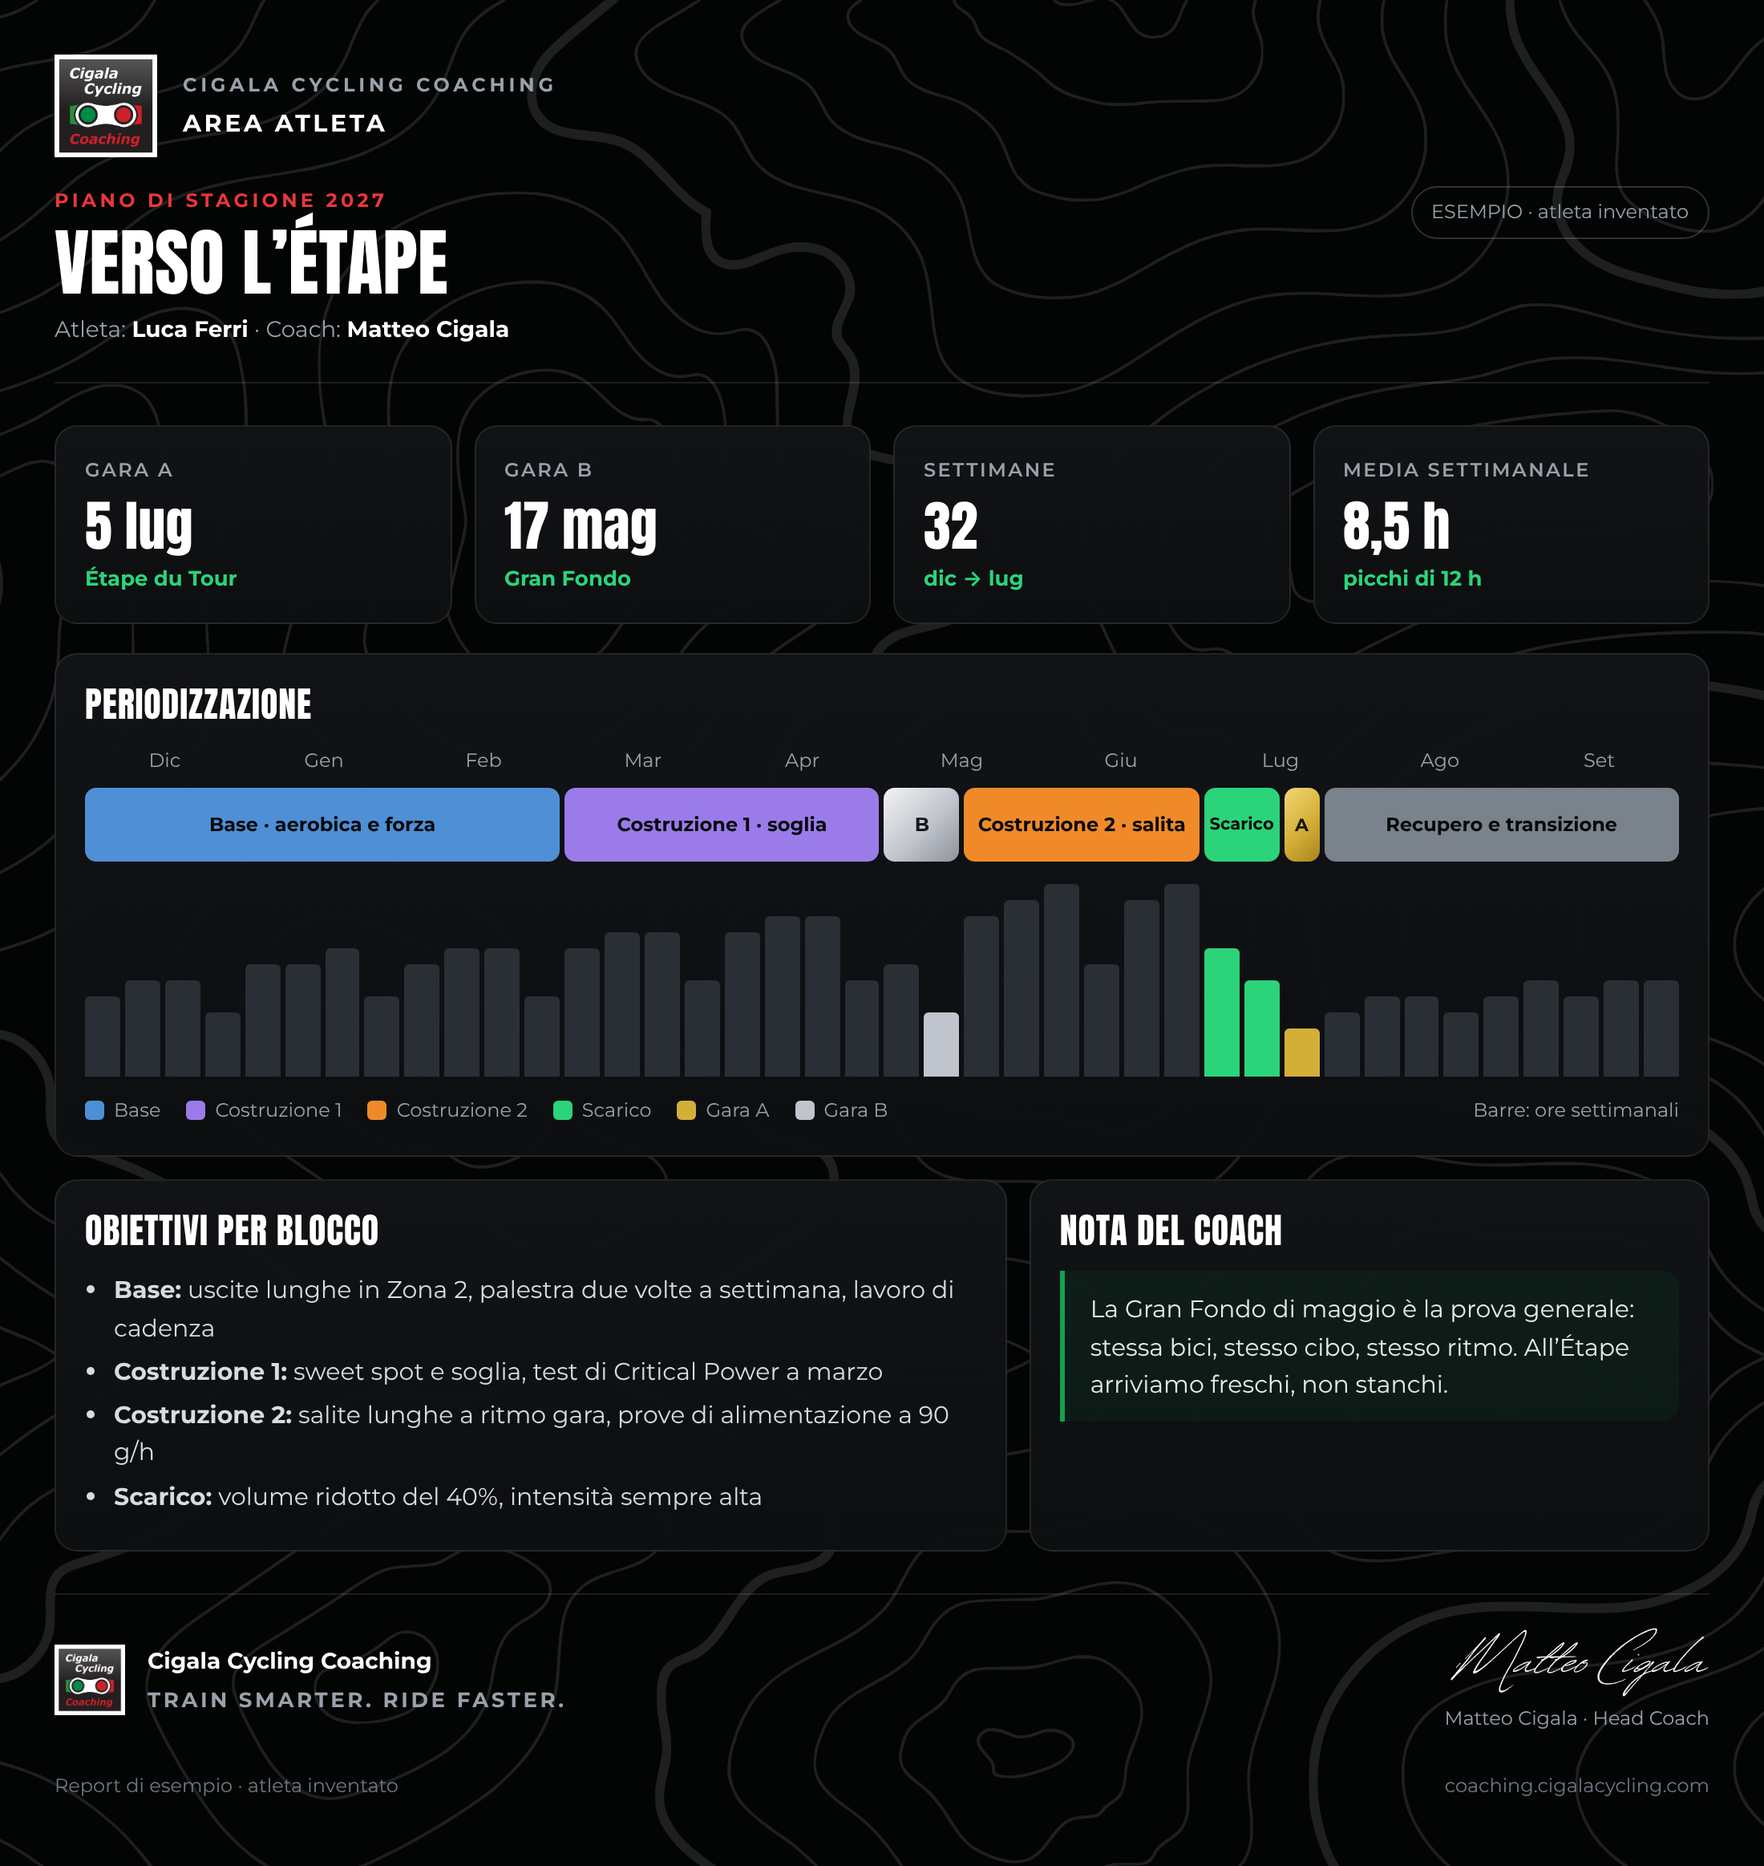
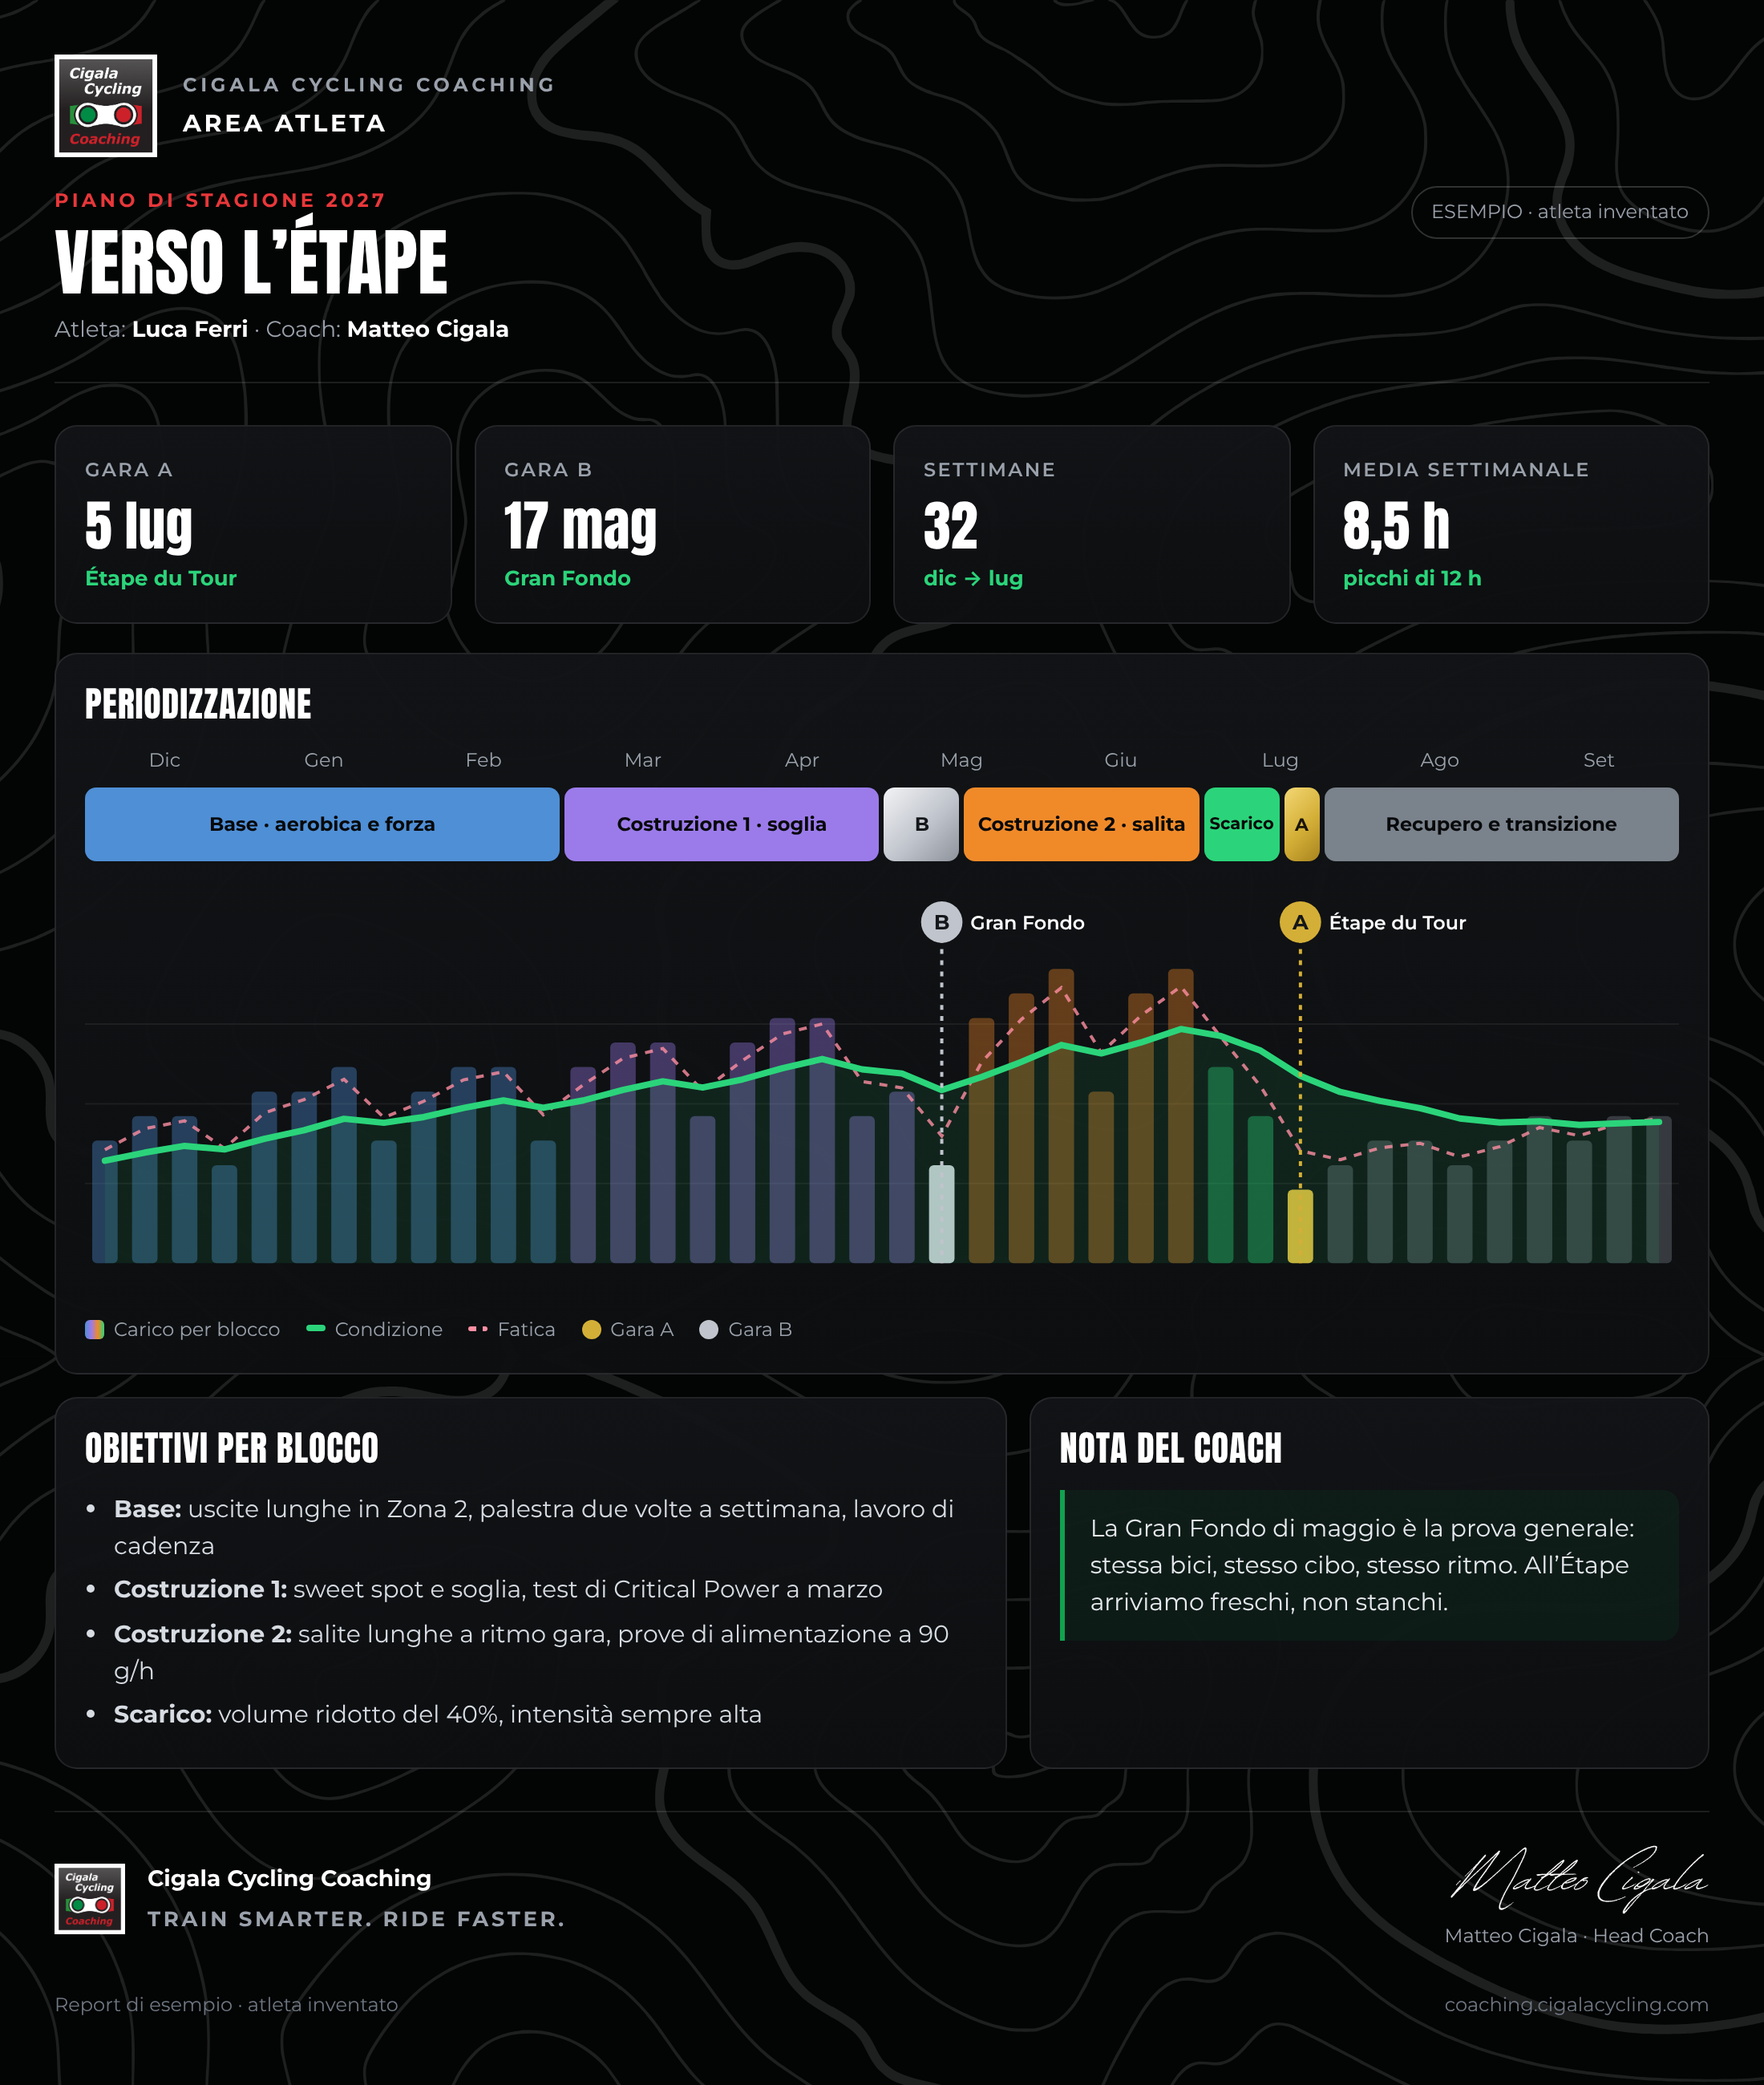
Example season plan: richer periodisation graph (load by block, fitness, fatigue, A/B races; no axis numbers), EN + IT
Claude-Session: https://claude.ai/code/session_01APBtfV87hW2MRrnroMbwU8

diff --git a/coaching/athlete-area/examples/it-season-plan.html b/coaching/athlete-area/examples/it-season-plan.html
@@ -9,10 +9,23 @@
 <div class="card"><h2>Periodizzazione</h2><div class="tl">
 <div class="months"><span>Dic</span><span>Gen</span><span>Feb</span><span>Mar</span><span>Apr</span><span>Mag</span><span>Giu</span><span>Lug</span><span>Ago</span><span>Set</span></div>
 <div class="ph"><div style="grid-column:1/13;background:#4f8fd6">Base · aerobica e forza</div><div style="grid-column:13/21;background:#9b7bea">Costruzione 1 · soglia</div><div style="grid-column:21/23;background:linear-gradient(135deg,#F2F3F5,#C0C4CC 55%,#8E939C);color:#15171a">B</div><div style="grid-column:23/29;background:#f08a29">Costruzione 2 · salita</div><div style="grid-column:29/31;background:#2bd47a;font-size:10.5px">Scarico</div><div style="grid-column:31/32;background:linear-gradient(135deg,#F3D774,#D4AF37 55%,#A8841F);color:#1a1406;font-size:11px">A</div><div style="grid-column:32/41;background:#7a828c">Recupero e transizione</div></div>
-<div class="hrs" id="h"></div>
+<div id="pz" style="margin-top:22px"></div>
 </div>
-<div class="lg"><span><b style="background:#4f8fd6"></b>Base</span><span><b style="background:#9b7bea"></b>Costruzione 1</span><span><b style="background:#f08a29"></b>Costruzione 2</span><span><b style="background:#2bd47a"></b>Scarico</span><span><b style="background:#D4AF37"></b>Gara A</span><span><b style="background:#C0C4CC"></b>Gara B</span><span style="margin-left:auto">Barre: ore settimanali</span></div></div>
+<div class="lg"><span><b style="background:linear-gradient(90deg,#4f8fd6,#9b7bea,#f08a29,#2bd47a)"></b>Carico per blocco</span><span><b style="background:#2bd47a;height:4px;vertical-align:3px"></b>Condizione</span><span><b style="background:repeating-linear-gradient(90deg,#ff8fa3 0 5px,transparent 5px 9px);height:3px;vertical-align:3px"></b>Fatica</span><span><b style="background:#D4AF37;border-radius:50%"></b>Gara A</span><span><b style="background:#C0C4CC;border-radius:50%"></b>Gara B</span></div></div>
 <div class="grid g2" style="margin-top:14px"><div class="card"><h2>Obiettivi per blocco</h2><ul><li><b>Base:</b> uscite lunghe in Zona 2, palestra due volte a settimana, lavoro di cadenza</li><li><b>Costruzione 1:</b> sweet spot e soglia, test di Critical Power a marzo</li><li><b>Costruzione 2:</b> salite lunghe a ritmo gara, prove di alimentazione a 90 g/h</li><li><b>Scarico:</b> volume ridotto del 40%, intensità sempre alta</li></ul></div>
 <div class="card"><h2>Nota del coach</h2><div class="note">La Gran Fondo di maggio è la prova generale: stessa bici, stesso cibo, stesso ritmo. All’Étape arriviamo freschi, non stanchi.</div></div></div>
 <div class="bfoot"><div class="l"><img src="logo.png" alt=""><div><b>Cigala Cycling Coaching</b><div class="tg">Train smarter. Ride faster.</div></div></div><div class="r"><img src="signature.png" alt="Matteo Cigala signature"><small>Matteo Cigala · Head Coach</small></div></div><div class="foot"><span>Report di esempio · atleta inventato</span><span>coaching.cigalacycling.com</span></div></div>
-<script>var h=[5,6,6,4,7,7,8,5,7,8,8,5,8,9,9,6,9,10,10,6,7,4,10,11,12,7,11,12,8,6,3,4,5,5,4,5,6,5,6,6],e=document.getElementById('h');h.forEach(function(x,i){var b=document.createElement('i');b.style.height=(x/12*100)+'%';if(i===30)b.style.background='#D4AF37';else if(i===21)b.style.background='#C0C4CC';else if(i>=28&&i<30)b.style.background='#2bd47a';e.appendChild(b)})</script></body></html>
+<script>(function(){
+var load=[5,6,6,4,7,7,8,5,7,8,8,5,8,9,9,6,9,10,10,6,7,4,10,11,12,7,11,12,8,6,3,4,5,5,4,5,6,5,6,6];
+function col(i){return i<12?'#4f8fd6':i<20?'#9b7bea':i<22?(i==21?'#C0C4CC':'#9b7bea'):i<28?'#f08a29':i<30?'#2bd47a':i==30?'#D4AF37':'#7a828c';}
+var W=1000,H=250,T=30,B=20,n=load.length,bw=W/n,mx=13,y=function(v){return T+(H-T-B)*(1-v/mx);};
+var ctl=[],atl=[],c=4,a=4;load.forEach(function(v){c+=(v-c)/5.5;a+=(v-a)/1.6;ctl.push(c);atl.push(a);});
+var s='<svg viewBox="0 0 '+W+' '+H+'" width="100%" style="display:block;overflow:visible">';
+for(var g=1;g<4;g++)s+='<line x1="0" x2="'+W+'" y1="'+(T+(H-T-B)*g/4)+'" y2="'+(T+(H-T-B)*g/4)+'" stroke="rgba(255,255,255,.06)"/>';
+load.forEach(function(v,i){s+='<rect x="'+(i*bw+bw*.18)+'" y="'+y(v)+'" width="'+bw*.64+'" height="'+(H-B-y(v))+'" rx="3" fill="'+col(i)+'" opacity="'+(i==21||i==30?1:.38)+'"/>';});
+function path(arr){return arr.map(function(v,i){return (i?'L':'M')+(i*bw+bw/2).toFixed(1)+' '+y(v).toFixed(1);}).join(' ');}
+s+='<path d="'+path(ctl)+' L'+((n-1)*bw+bw/2)+' '+(H-B)+' L'+(bw/2)+' '+(H-B)+'Z" fill="rgba(43,212,122,.10)"/>';
+s+='<path d="'+path(atl)+'" fill="none" stroke="#ff8fa3" stroke-width="2" stroke-dasharray="5 5" opacity=".8"/>';
+s+='<path d="'+path(ctl)+'" fill="none" stroke="#2bd47a" stroke-width="4" stroke-linecap="round" stroke-linejoin="round"/>';
+[[21,'B','#C0C4CC','Gran Fondo'],[30,'A','#D4AF37','Étape du Tour']].forEach(function(r){var x=r[0]*bw+bw/2;s+='<line x1="'+x+'" x2="'+x+'" y1="'+(T-4)+'" y2="'+(H-B)+'" stroke="'+r[2]+'" stroke-width="2" stroke-dasharray="3 4"/><circle cx="'+x+'" cy="'+(T-14)+'" r="13" fill="'+r[2]+'"/><text x="'+x+'" y="'+(T-9.5)+'" text-anchor="middle" font-family="Montserrat" font-weight="700" font-size="13" fill="#15171a">'+r[1]+'</text><text x="'+(x+18)+'" y="'+(T-9.5)+'" font-family="Montserrat" font-weight="600" font-size="12" fill="#fff">'+r[3]+'</text>';});
+s+='</svg>';document.getElementById('pz').innerHTML=s;})();</script></body></html>

diff --git a/coaching/athlete-area/examples/season-plan.html b/coaching/athlete-area/examples/season-plan.html
@@ -9,10 +9,23 @@
 <div class="card"><h2>Periodisation</h2><div class="tl">
 <div class="months"><span>Dec</span><span>Jan</span><span>Feb</span><span>Mar</span><span>Apr</span><span>May</span><span>Jun</span><span>Jul</span><span>Aug</span><span>Sep</span></div>
 <div class="ph"><div style="grid-column:1/13;background:#4f8fd6">Base · aerobic &amp; strength</div><div style="grid-column:13/21;background:#9b7bea">Build 1 · threshold</div><div style="grid-column:21/23;background:linear-gradient(135deg,#F2F3F5,#C0C4CC 55%,#8E939C);color:#15171a">B</div><div style="grid-column:23/29;background:#f08a29">Build 2 · climbing</div><div style="grid-column:29/31;background:#2bd47a">Taper</div><div style="grid-column:31/32;background:linear-gradient(135deg,#F3D774,#D4AF37 55%,#A8841F);color:#1a1406;font-size:11px">A</div><div style="grid-column:32/41;background:#7a828c">Recovery &amp; transition</div></div>
-<div class="hrs" id="h"></div>
+<div id="pz" style="margin-top:22px"></div>
 </div>
-<div class="lg"><span><b style="background:#4f8fd6"></b>Base</span><span><b style="background:#9b7bea"></b>Build 1</span><span><b style="background:#f08a29"></b>Build 2</span><span><b style="background:#2bd47a"></b>Taper</span><span><b style="background:#D4AF37"></b>A race</span><span><b style="background:#C0C4CC"></b>B race</span><span style="margin-left:auto">Bars: weekly hours</span></div></div>
+<div class="lg"><span><b style="background:linear-gradient(90deg,#4f8fd6,#9b7bea,#f08a29,#2bd47a)"></b>Training load by block</span><span><b style="background:#2bd47a;height:4px;vertical-align:3px"></b>Fitness</span><span><b style="background:repeating-linear-gradient(90deg,#ff8fa3 0 5px,transparent 5px 9px);height:3px;vertical-align:3px"></b>Fatigue</span><span><b style="background:#D4AF37;border-radius:50%"></b>A race</span><span><b style="background:#C0C4CC;border-radius:50%"></b>B race</span></div></div>
 <div class="grid g2" style="margin-top:14px"><div class="card"><h2>Focus by block</h2><ul><li><b>Base:</b> long Zone 2 rides, gym twice a week, cadence work</li><li><b>Build 1:</b> sweet spot and threshold, Critical Power test in March</li><li><b>Build 2:</b> long climbs at race pace, fuelling practice at 90 g/h</li><li><b>Taper:</b> volume down 40%, keep the intensity sharp</li></ul></div>
 <div class="card"><h2>Coach's note</h2><div class="note">The Gran Fondo in May is a dress rehearsal: same bike, same food, same pacing. We arrive at the Étape fresh, not tired.</div></div></div>
 <div class="bfoot"><div class="l"><img src="logo.png" alt=""><div><b>Cigala Cycling Coaching</b><div class="tg">Train smarter. Ride faster.</div></div></div><div class="r"><img src="signature.png" alt="Matteo Cigala signature"><small>Matteo Cigala · Head Coach</small></div></div><div class="foot"><span>Example report · not a real athlete</span><span>coaching.cigalacycling.com</span></div></div>
-<script>var h=[5,6,6,4,7,7,8,5,7,8,8,5,8,9,9,6,9,10,10,6,7,4,10,11,12,7,11,12,8,6,3,4,5,5,4,5,6,5,6,6],e=document.getElementById('h');h.forEach(function(x,i){var b=document.createElement('i');b.style.height=(x/12*100)+'%';if(i===30)b.style.background='#D4AF37';else if(i===21)b.style.background='#C0C4CC';else if(i>=28&&i<30)b.style.background='#2bd47a';e.appendChild(b)})</script></body></html>
+<script>(function(){
+var load=[5,6,6,4,7,7,8,5,7,8,8,5,8,9,9,6,9,10,10,6,7,4,10,11,12,7,11,12,8,6,3,4,5,5,4,5,6,5,6,6];
+function col(i){return i<12?'#4f8fd6':i<20?'#9b7bea':i<22?(i==21?'#C0C4CC':'#9b7bea'):i<28?'#f08a29':i<30?'#2bd47a':i==30?'#D4AF37':'#7a828c';}
+var W=1000,H=250,T=30,B=20,n=load.length,bw=W/n,mx=13,y=function(v){return T+(H-T-B)*(1-v/mx);};
+var ctl=[],atl=[],c=4,a=4;load.forEach(function(v){c+=(v-c)/5.5;a+=(v-a)/1.6;ctl.push(c);atl.push(a);});
+var s='<svg viewBox="0 0 '+W+' '+H+'" width="100%" style="display:block;overflow:visible">';
+for(var g=1;g<4;g++)s+='<line x1="0" x2="'+W+'" y1="'+(T+(H-T-B)*g/4)+'" y2="'+(T+(H-T-B)*g/4)+'" stroke="rgba(255,255,255,.06)"/>';
+load.forEach(function(v,i){s+='<rect x="'+(i*bw+bw*.18)+'" y="'+y(v)+'" width="'+bw*.64+'" height="'+(H-B-y(v))+'" rx="3" fill="'+col(i)+'" opacity="'+(i==21||i==30?1:.38)+'"/>';});
+function path(arr){return arr.map(function(v,i){return (i?'L':'M')+(i*bw+bw/2).toFixed(1)+' '+y(v).toFixed(1);}).join(' ');}
+s+='<path d="'+path(ctl)+' L'+((n-1)*bw+bw/2)+' '+(H-B)+' L'+(bw/2)+' '+(H-B)+'Z" fill="rgba(43,212,122,.10)"/>';
+s+='<path d="'+path(atl)+'" fill="none" stroke="#ff8fa3" stroke-width="2" stroke-dasharray="5 5" opacity=".8"/>';
+s+='<path d="'+path(ctl)+'" fill="none" stroke="#2bd47a" stroke-width="4" stroke-linecap="round" stroke-linejoin="round"/>';
+[[21,'B','#C0C4CC','Gran Fondo'],[30,'A','#D4AF37','Étape du Tour']].forEach(function(r){var x=r[0]*bw+bw/2;s+='<line x1="'+x+'" x2="'+x+'" y1="'+(T-4)+'" y2="'+(H-B)+'" stroke="'+r[2]+'" stroke-width="2" stroke-dasharray="3 4"/><circle cx="'+x+'" cy="'+(T-14)+'" r="13" fill="'+r[2]+'"/><text x="'+x+'" y="'+(T-9.5)+'" text-anchor="middle" font-family="Montserrat" font-weight="700" font-size="13" fill="#15171a">'+r[1]+'</text><text x="'+(x+18)+'" y="'+(T-9.5)+'" font-family="Montserrat" font-weight="600" font-size="12" fill="#fff">'+r[3]+'</text>';});
+s+='</svg>';document.getElementById('pz').innerHTML=s;})();</script></body></html>
